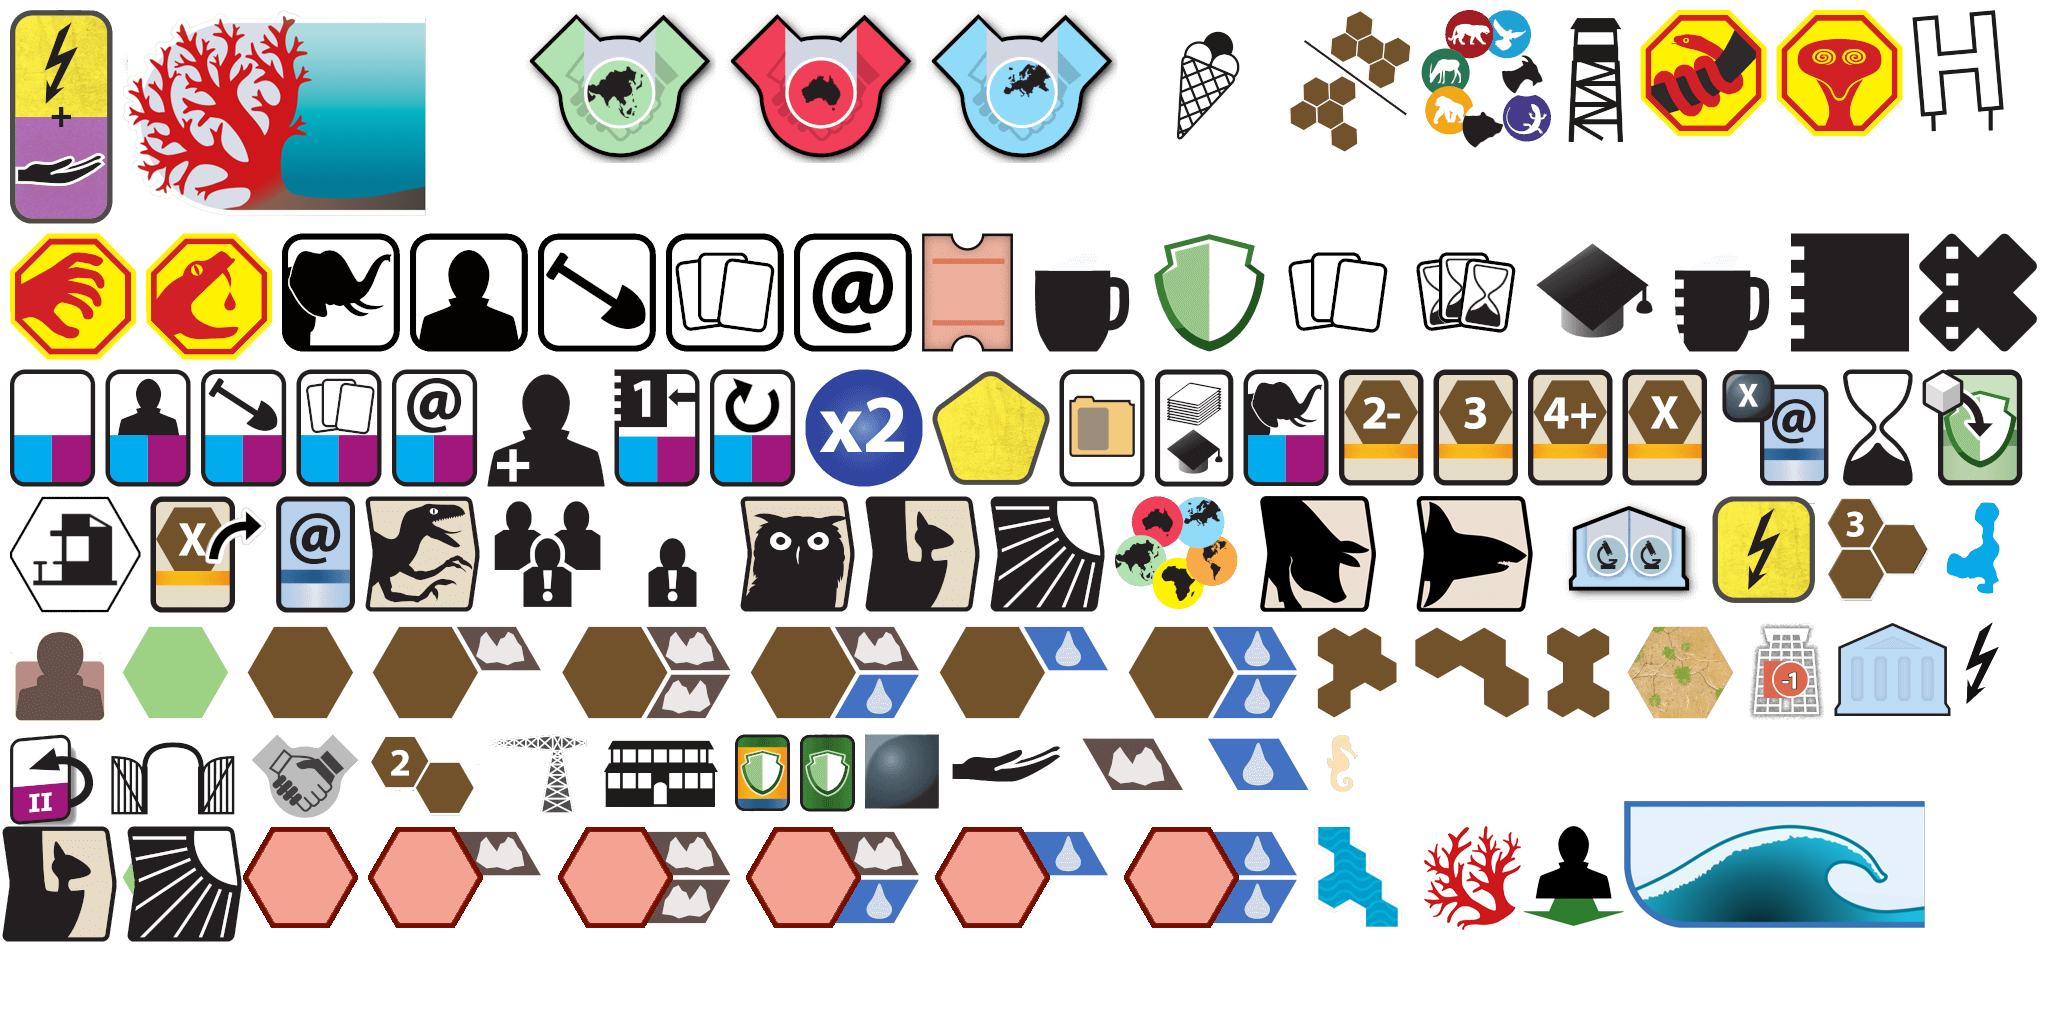
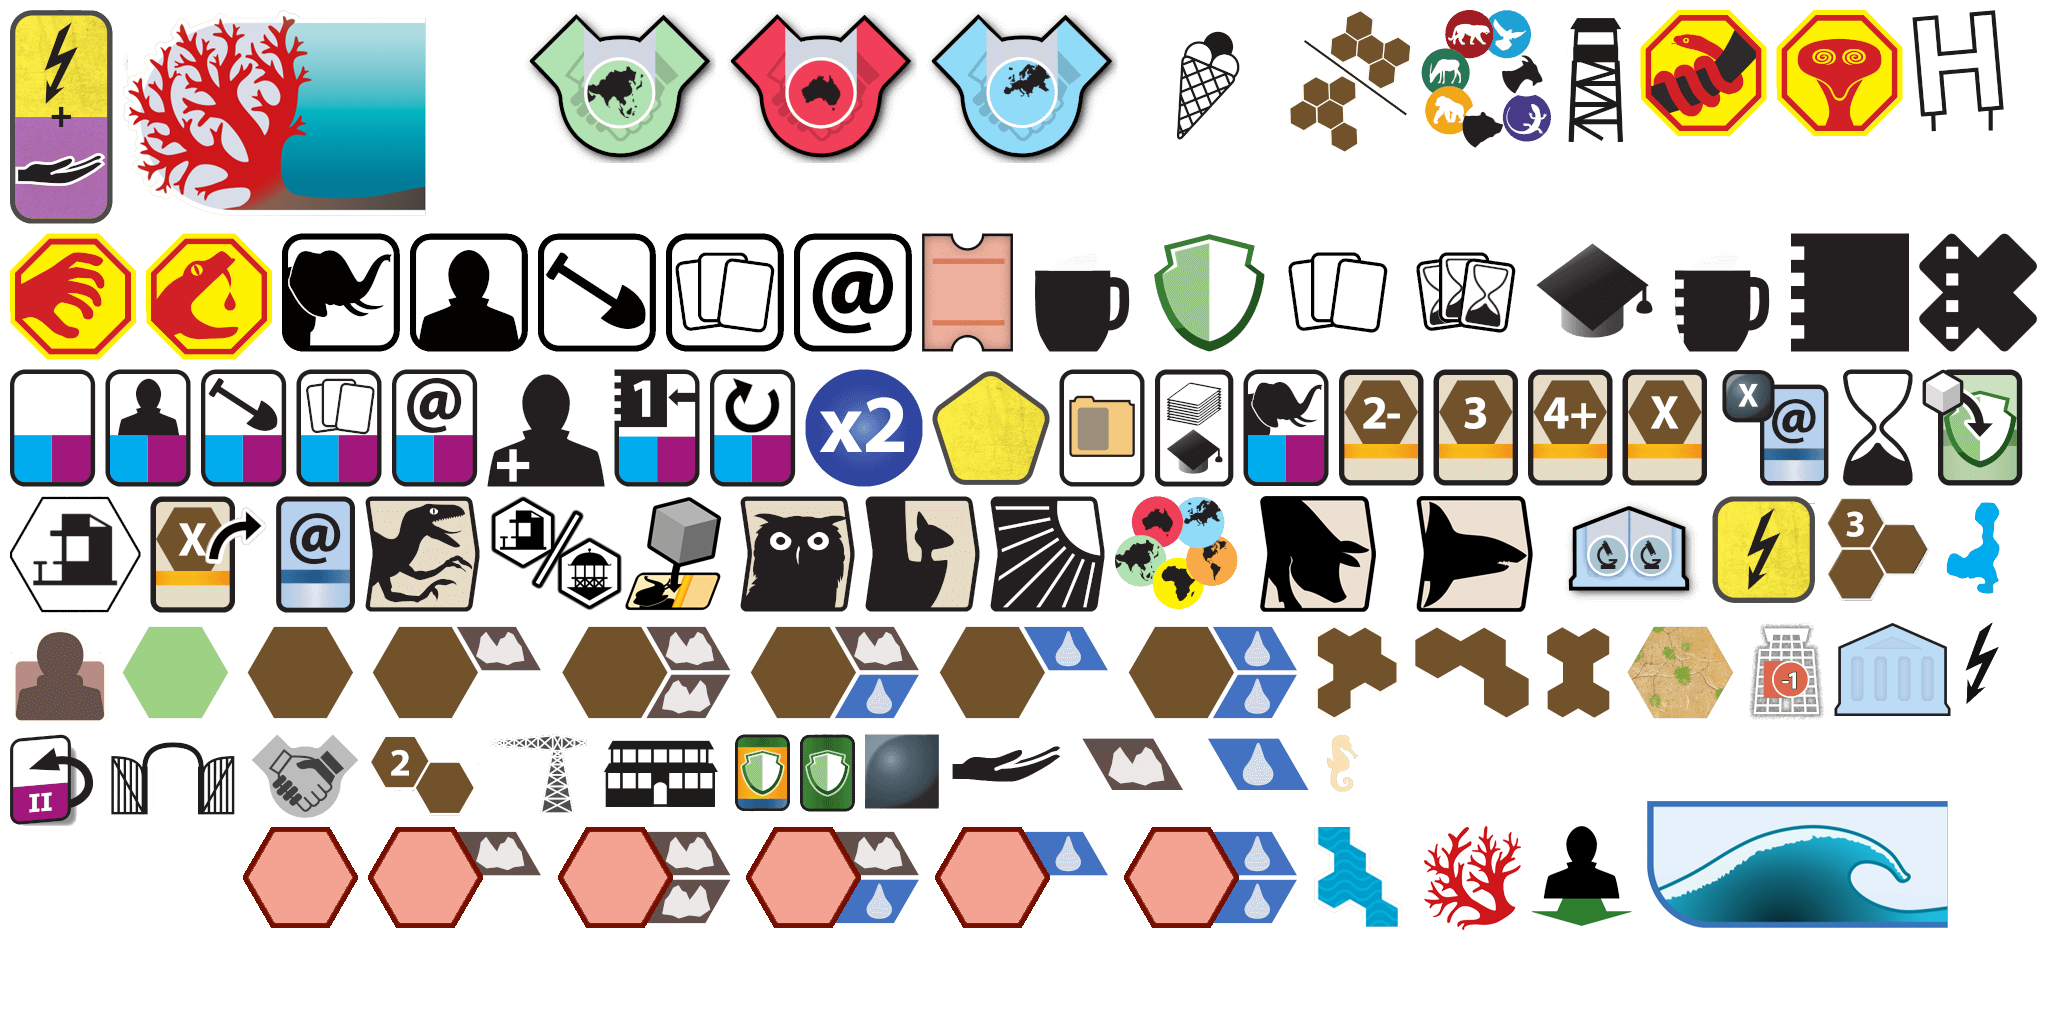
feat: reef dweller

Changed region(s): [[0.75, 0.7812, 0.9688, 0.9062], [0.0, 0.7812, 0.125, 0.9375], [0.2188, 0.4688, 0.375, 0.5938]]

diff --git a/src/components/abilities/Ability.tsx b/src/components/abilities/Ability.tsx
@@ -5,6 +5,9 @@ import ParseDescription from '@/components/abilities/ParseDescription';
 import AbilityIcon from '@/components/icons/abilities/AbilityIcon';
 import Boost from '@/components/icons/abilities/Boost';
 import ExtraShift from '@/components/icons/abilities/ExtraShift';
+import Mark from '@/components/icons/abilities/Mark';
+import Posturing from '@/components/icons/abilities/Posturing';
+import ReefDwellerIcon from '@/components/icons/abilities/ReefDwellerIcon';
 import Trade from '@/components/icons/abilities/Trade';
 import Clever from '@/components/icons/actions/Clever';
 import TakeCardInRange from '@/components/icons/take_cards/TakeCardInRange';
@@ -20,9 +23,14 @@ import { Ability, KeyWord } from '@/types/KeyWords';
 interface AbilityProps {
   ability: Ability;
   style: 'full' | 'short' | 'icon';
+  isReefDweller?: boolean;
 }
 
-const AbilityComponent: React.FC<AbilityProps> = ({ ability, style }) => {
+const AbilityComponent: React.FC<AbilityProps> = ({
+  ability,
+  style,
+  isReefDweller,
+}) => {
   // const { t } = useTranslation();
   const { t } = useTranslation('common');
   const keyword = ability.keyword;
@@ -36,13 +44,15 @@ const AbilityComponent: React.FC<AbilityProps> = ({ ability, style }) => {
     else if (keyword === KeyWord.APPEAL)
       return <AppealIcon value={ability.value} />;
     else if (keyword === KeyWord.SHARK_ATTACK)
-      return <AbilityIcon keyWord={keyword} />;
+      return <AbilityIcon keyWord={keyword} value={ability.value.toString()} />;
     else if (keyword === KeyWord.DIGGING)
-      return <AbilityIcon keyWord={keyword} />;
+      return <AbilityIcon keyWord={keyword} value={ability.value.toString()} />;
     else if (keyword === KeyWord.TRADE) return <Trade />;
     else if (keyword === KeyWord.TAKE_CARD_IN_RANGE) return <TakeCardInRange />;
     else if (keyword === KeyWord.INVENTIVE) return <XToken />;
     else if (keyword === KeyWord.CLEVER) return <Clever />;
+    else if (keyword === KeyWord.MARK) return <Mark />;
+    else if (keyword === KeyWord.POSTURING) return <Posturing />;
     else if (keyword === KeyWord.BOOST_BUILDING)
       return <Boost actionType={ActionCardType.BUILD} />;
     else if (keyword === KeyWord.BOOST_ANIMAL)
@@ -64,14 +74,21 @@ const AbilityComponent: React.FC<AbilityProps> = ({ ability, style }) => {
       ? t(ability.keyword.name) + ':' + t(ability.value.toString())
       : t(ability.keyword.name) + ' ' + t(ability.value.toString());
   return (
-    <>
-      <h6 className='animal-ability-title'>{keyWord}</h6>
-      {style == 'full' && (
-        <div className='animal-ability-desc sf-hidden'>
-          <ParseDescription desc={ability} />
+    <div className='flex'>
+      {isReefDweller !== undefined && isReefDweller && (
+        <div className='-ml-1 -mt-1'>
+          <ReefDwellerIcon />
         </div>
       )}
-    </>
+      <div>
+        <h6 className='animal-ability-title'>{keyWord}</h6>
+        {style == 'full' && (
+          <div className='animal-ability-desc sf-hidden'>
+            <ParseDescription desc={ability} />
+          </div>
+        )}
+      </div>
+    </div>
   );
 };
 

diff --git a/src/components/buttons/TextButton.tsx b/src/components/buttons/TextButton.tsx
@@ -1,6 +1,6 @@
 import classNames from 'classnames';
 import * as React from 'react';
-
+import { twMerge } from 'tailwind-merge';
 const TextButtonVariant = ['primary', 'basic'] as const;
 
 type TextButtonProps = {
@@ -16,7 +16,7 @@ const TextButton = React.forwardRef<HTMLButtonElement, TextButtonProps>(
       className,
       selected,
       selectClassName,
-      variant = 'primary',
+      variant = 'basic',
       disabled: buttonDisabled,
       ...rest
     },
@@ -27,25 +27,27 @@ const TextButton = React.forwardRef<HTMLButtonElement, TextButtonProps>(
         ref={ref}
         type='button'
         disabled={buttonDisabled}
-        className={classNames(
-          'group mt-1 flex w-36 items-center justify-between space-x-2 rounded-full bg-gradient-to-b from-zinc-50/20 to-white/80 px-4 py-2 text-sm font-medium text-zinc-800 shadow-lg shadow-zinc-800/5 ring-1 ring-zinc-900/5 backdrop-blur-md focus:outline-none focus-visible:ring-2 dark:from-zinc-900/30 dark:to-zinc-800/80 dark:text-zinc-200 dark:ring-white/10 dark:hover:ring-white/20 dark:focus-visible:ring-yellow-500/80',
-          //#region  //*=========== Variant ===========
-          variant === 'primary' && [
-            'text-primary-500 hover:text-primary-600 active:text-primary-700',
-            'disabled:text-primary-200',
-          ],
-          variant === 'basic' && [
-            'text-black hover:text-gray-600 active:text-gray-800',
-            'disabled:text-gray-300',
-          ],
+        className={twMerge(
+          classNames(
+            'group mt-1 flex w-36 items-center justify-between space-x-2 rounded-full bg-gradient-to-b from-zinc-50/20 to-white/80 px-4 py-2 text-sm font-medium text-zinc-800 shadow-lg shadow-zinc-800/5 ring-1 ring-zinc-900/5 backdrop-blur-md focus:outline-none focus-visible:ring-2 dark:from-zinc-900/30 dark:to-zinc-800/80 dark:text-zinc-200 dark:ring-white/10 dark:hover:ring-white/20 dark:focus-visible:ring-yellow-500/80',
+            //#region  //*=========== Variant ===========
+            variant === 'primary' && [
+              'text-primary-500 hover:text-primary-600 active:text-primary-700',
+              'disabled:text-primary-200',
+            ],
+            variant === 'basic' && [
+              'text-black hover:text-gray-600 active:text-gray-800',
+              'disabled:text-gray-300',
+            ],
 
-          //#endregion  //*======== Variant ===========
-          'disabled:cursor-not-allowed disabled:brightness-105 disabled:hover:underline',
-          className,
-          selected &&
-            selectClassName === undefined &&
-            'ring-2 ring-lime-700/90',
-          selected && selectClassName !== undefined && selectClassName
+            //#endregion  //*======== Variant ===========
+            'disabled:cursor-not-allowed disabled:brightness-105 disabled:hover:underline',
+            className,
+            selected &&
+              selectClassName === undefined &&
+              'ring-2 ring-lime-700/90',
+            selected && selectClassName !== undefined && selectClassName
+          )
         )}
         {...rest}
       >

diff --git a/src/styles/arknova.css b/src/styles/arknova.css
@@ -858,7 +858,13 @@
   .ark-card-top
   .ark-card-top-left
   .animal-card-enclosure-cost.wide
-  .animal-card-enclosure {
+  .animal-card-enclosure,
+.ark-card.zoo-card.animal-card
+  .ark-card-wrapper
+  .ark-card-top
+  .ark-card-top-left
+  .animal-card-enclosure-cost.wide
+  .animal-card-enclosure-forbidden {
   border-bottom-right-radius: 8px;
   min-width: 110px;
 }
@@ -4871,6 +4877,22 @@
   background-size: 1780.8695652173913%;
 }
 
+.arknova-icon.icon-mark {
+  background-position: 32.215830315571652% 54.62046204620462%;
+  background-size: 1880.8695652173913%;
+}
+
+.arknova-icon.icon-reef-dweller {
+  background-position: 72.99821474113746% 89.55%;
+  background-size: 1800.9645390070923%;
+}
+
+/* replace original icons with these */
+.arknova-icon.icon-posturing {
+  background-position: 25.399198137609935% 54.62046204620462%;
+  background-size: 1510.8695652173913%;
+}
+
 .arknova-icon.icon-listener-your-zoo {
   background-position: 31.815830315571652% 54.62046204620462%;
   background-size: 1780.8695652173913%;
@@ -4995,11 +5017,11 @@
   background-size: 1780.8695652173913%;
 }
 .arknova-icon.icon-extra-shift {
-  background-position: 77.69821474113746% 89.55%;
-  background-size: 1890.8695652173913%;
+  background-position: 78.31821474113746% 89.55%;
+  background-size: 1950.8695652173913%;
 }
 .arknova-icon.icon-digging {
-  background-position: 51.2157268494568% 54.62046204620462%;
+  background-position: 65.2157268494568% 54.62046204620462%;
   background-size: 1780.8695652173913%;
 }
 
@@ -5271,6 +5293,22 @@
   height: 1.55em;
   width: 1.7em;
 }
+
+.icon-container .icon-mark {
+  height: 1.7em;
+  width: 1.4em;
+}
+
+.icon-container .icon-reef-dweller {
+  height: 1.7em;
+  width: 2em;
+}
+
+.icon-container .icon-posturing {
+  height: 1.5em;
+  width: 1.8em;
+}
+
 .icon-container .icon-extra-shift {
   height: 2em;
   width: 1.5em;
@@ -5298,7 +5336,7 @@
   font-family: MyriadPro-Bold;
   font-size: 0.9em;
   letter-spacing: -1px;
-  line-height: 0.7em;
+  line-height: 1em;
   margin-left: 0.1em;
 }
 

diff --git a/src/components/buttons/TagButton.tsx b/src/components/buttons/TagButton.tsx
@@ -1,6 +1,7 @@
 // TagButton.tsx
 import classNames from 'classnames';
 import * as React from 'react';
+import { twMerge } from 'tailwind-merge';
 
 import TagComponent from '@/components/icons/Tag';
 
@@ -18,11 +19,13 @@ const TagButton = React.forwardRef<HTMLButtonElement, TagButtonProps>(
       <button
         ref={ref}
         type='button'
-        className={classNames(
-          'filter-button group h-auto scale-90 rounded-full bg-gradient-to-b from-zinc-50/50 to-white/90 p-2 text-sm shadow-lg shadow-zinc-800/5 ring-1 ring-zinc-900/5 backdrop-blur transition dark:from-zinc-900/50 dark:to-zinc-800/90 dark:ring-white/10 dark:hover:ring-white/20',
-          selected &&
-            'bg-gradient-radial scale-125 from-lime-700/90 to-lime-600/70',
-          !selected && 'hover:scale-110'
+        className={twMerge(
+          classNames(
+            'filter-button group h-auto rounded-full bg-gradient-to-b from-zinc-50/50 to-white/90 p-2 text-sm shadow-lg shadow-zinc-800/5 ring-1 ring-zinc-900/5 backdrop-blur transition dark:from-zinc-900/50 dark:to-zinc-800/90 dark:ring-white/10 dark:hover:ring-white/20',
+            selected &&
+              'bg-gradient-radial scale-90 from-lime-700/90 to-lime-600/70',
+            !selected && 'scale-90 hover:scale-110'
+          )
         )}
         {...rest}
       >

diff --git a/src/components/cards/animal_cards/AnimalCard.tsx b/src/components/cards/animal_cards/AnimalCard.tsx
@@ -110,9 +110,22 @@ export const AnimalCard: React.FC<AnimalCardProps> = ({ animal }) => {
         </div>
         {animal.abilities && (
           <div className='animal-ability'>
-            {animal.abilities.map((ability, index) => (
-              <Ability key={index} ability={ability} style='full' />
-            ))}
+            {animal.abilities.map((ability, index) => {
+              const isReefDweller =
+                animal.reefDwellerEffect !== undefined &&
+                animal.reefDwellerEffect.some(
+                  (reefDwellerAbility) =>
+                    reefDwellerAbility.keyword === ability.keyword
+                );
+              return (
+                <Ability
+                  key={index}
+                  ability={ability}
+                  isReefDweller={isReefDweller}
+                  style='full'
+                />
+              );
+            })}
           </div>
         )}
       </div>

diff --git a/src/components/icons/abilities/AbilityIcon.tsx b/src/components/icons/abilities/AbilityIcon.tsx
@@ -22,10 +22,25 @@ const AbilityIcon: React.FC<Props> = ({ keyWord, value = '' }) => {
       ? 'digging'
       : null;
 
+  const valueClass =
+    keyWord === KeyWord.POUCH
+      ? 'pouch'
+      : keyWord === KeyWord.PERCEPTION_2 || keyWord === KeyWord.PERCEPTION_4
+      ? 'perception'
+      : keyWord === KeyWord.SUN_BATHING
+      ? 'sunbathing'
+      : keyWord === KeyWord.SHARK_ATTACK
+      ? 'text-white pl-1 pb-1 text-xs'
+      : keyWord === KeyWord.HUNTER
+      ? 'hunter'
+      : keyWord === KeyWord.DIGGING
+      ? 'text-white pl-2 pb-1 text-xs'
+      : '';
+
   return (
     <div className='icon-container'>
       <div className={`arknova-icon scale-90 icon-${keyWordClass}`}>
-        {value}
+        <div className={valueClass}>{value}</div>
       </div>
     </div>
   );

diff --git a/src/data/Animals.ts b/src/data/Animals.ts
@@ -1942,7 +1942,7 @@ export const AnimalsData: AnimalCard[] = [
     specialEnclosures: [new SpecialEnclosure(SpecialEnclosureType.Aquarium, 1)],
     abilities: [new Ability(KeyWord.POSTURING, 1)],
     description: '',
-    reefDwellerEffect: [new Ability(KeyWord.REEF_MONEY, 3)],
+    reefDwellerEffect: [new Ability(KeyWord.POSTURING, 1)],
     soloEffect: [],
     reputation: 0,
     appeal: 4,

diff --git a/src/components/icons/abilities/ReefDwellerIcon.tsx b/src/components/icons/abilities/ReefDwellerIcon.tsx
@@ -1,0 +1,11 @@
+import React from 'react';
+
+const ReefDwellerIcon: React.FC = () => {
+  return (
+    <div className='icon-container icon-reef-dweller scale-90'>
+      <div className='arknova-icon icon-reef-dweller'></div>
+    </div>
+  );
+};
+
+export default ReefDwellerIcon;

diff --git a/src/components/icons/abilities/ExtraShift.tsx b/src/components/icons/abilities/ExtraShift.tsx
@@ -3,7 +3,7 @@ import React from 'react';
 const ExtraShift: React.FC = () => {
   return (
     <div className='icon-container'>
-      <div className='arknova-icon icon-extra-shift scale-90'></div>
+      <div className='arknova-icon icon-extra-shift'></div>
     </div>
   );
 };

diff --git a/src/components/icons/abilities/Posturing.tsx b/src/components/icons/abilities/Posturing.tsx
@@ -1,0 +1,11 @@
+import React from 'react';
+
+const Posturing: React.FC = () => {
+  return (
+    <div className='icon-container icon-posturing'>
+      <div className='arknova-icon icon-posturing'></div>
+    </div>
+  );
+};
+
+export default Posturing;

diff --git a/src/components/icons/abilities/Mark.tsx b/src/components/icons/abilities/Mark.tsx
@@ -1,0 +1,11 @@
+import React from 'react';
+
+const Mark: React.FC = () => {
+  return (
+    <div className='icon-container icon-mark'>
+      <div className='arknova-icon icon-mark'></div>
+    </div>
+  );
+};
+
+export default Mark;
